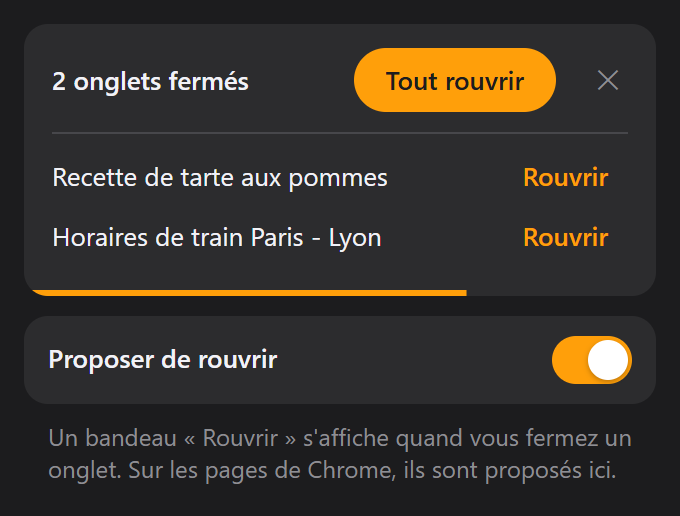
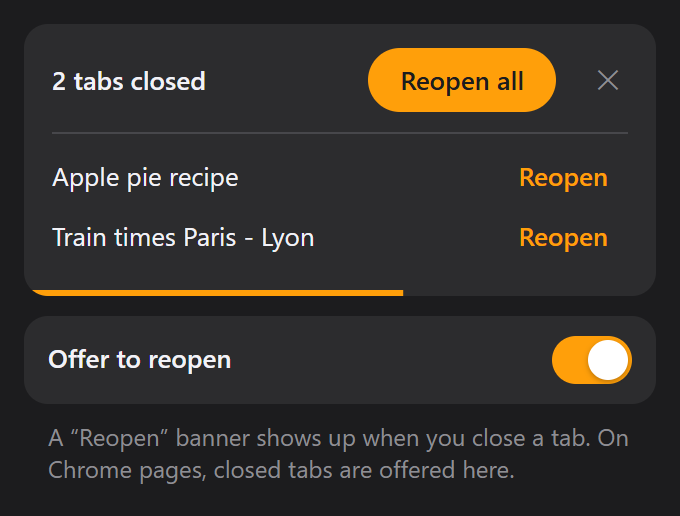
Translate the interface: English by default (Undo Close Tab), French kept, through Chrome's language files

diff --git a/banner.js b/banner.js
@@ -1,9 +1,15 @@
-// Le bandeau "Onglet fermé · Rouvrir", commun à la page (toast.js) et à la
+// Le bandeau "Tab closed · Reopen" ("Onglet fermé · Rouvrir"), commun à la page (toast.js) et à la
 // petite fenêtre de secours (confirm.js). Une ligne par onglet fermé ; les
 // onglets fermés d'un même geste partagent une ligne.
 // Affectation plutôt que déclaration : le fichier peut être injecté deux fois.
 globalThis.closedTabsBanner = (() => {
   const MAX_ROWS = 5;
+
+  // Textes dans la langue de Chrome (_locales), pluriels selon la règle de la langue.
+  // Ce fichier tourne aussi dans les pages : il n'utilise pas i18n.js, qui touche au document.
+  const t = (key, ...subs) => chrome.i18n.getMessage(key, subs.map(String)) || key;
+  const plurals = new Intl.PluralRules(chrome.i18n.getUILanguage());
+  const tp = (key, count) => chrome.i18n.getMessage(`${key}_${plurals.select(count)}`, [String(count)]) || t(`${key}_other`, count);
 
   // Les couleurs suivent le thème clair ou sombre du système ; l'orange est
   // celui de l'icône de l'extension.
@@ -206,18 +212,18 @@ globalThis.closedTabsBanner = (() => {
     toast.setAttribute('role', 'status');
 
     const dismiss = element('button', 'dismiss', '✕');
-    dismiss.setAttribute('aria-label', 'Ignorer');
+    dismiss.setAttribute('aria-label', t('dismiss'));
     dismiss.addEventListener('click', handlers.dismiss);
 
     const head = element('div', 'head');
     if (tabs.length === 1) {
       const text = element('div', 'text');
-      text.append(element('div', 'label', 'Onglet fermé'), element('div', 'title', tabs[0].title));
-      head.append(...[favicon(tabs[0].icon), text, button('restore', 'Rouvrir', tabs), dismiss].filter(Boolean));
+      text.append(element('div', 'label', t('tabClosed')), element('div', 'title', tabs[0].title));
+      head.append(...[favicon(tabs[0].icon), text, button('restore', t('reopen'), tabs), dismiss].filter(Boolean));
     } else {
       head.append(
-        element('div', 'text title', `${tabs.length} onglets fermés`),
-        button('restore', 'Tout rouvrir', tabs),
+        element('div', 'text title', tp('tabsClosed', tabs.length)),
+        button('restore', t('reopenAll'), tabs),
         dismiss,
       );
     }
@@ -228,13 +234,13 @@ globalThis.closedTabsBanner = (() => {
       const list = element('div', 'list');
       for (const row of rows.slice(0, MAX_ROWS)) {
         const [first] = row.tabs;
-        const name = row.tabs.length === 1 ? first.title : `${row.tabs.length} onglets fermés ensemble`;
+        const name = row.tabs.length === 1 ? first.title : tp('closedTogether', row.tabs.length);
         const line = element('div', 'row');
-        line.append(...[favicon(first.icon), element('div', 'name', name), button('link', 'Rouvrir', row.tabs)].filter(Boolean));
+        line.append(...[favicon(first.icon), element('div', 'name', name), button('link', t('reopen'), row.tabs)].filter(Boolean));
         list.append(line);
       }
       const hidden = rows.slice(MAX_ROWS).flatMap((row) => row.tabs).length;
-      if (hidden) list.append(element('div', 'more', `+ ${hidden} ${hidden === 1 ? 'autre' : 'autres'}`));
+      if (hidden) list.append(element('div', 'more', tp('more', hidden)));
       toast.append(list);
     }
 

diff --git a/i18n.js b/i18n.js
@@ -1,0 +1,22 @@
+// Textes de l'interface dans la langue de Chrome, lus dans _locales/<langue>/messages.json
+// (l'anglais quand la langue n'est pas traduite).
+// Dans le HTML : data-i18n="clé" pour le texte, data-i18n-placeholder, data-i18n-title
+// et data-i18n-aria-label pour les attributs.
+const t = (key, ...subs) => chrome.i18n.getMessage(key, subs.map(String)) || key;
+
+// Pluriels : la clé reçoit le suffixe de la règle de la langue (_one, _few, _many,
+// _other…), avec _other en repli. Le nombre est le premier remplacement ($COUNT$).
+const plurals = new Intl.PluralRules(chrome.i18n.getUILanguage());
+const tp = (key, count, ...subs) =>
+  chrome.i18n.getMessage(`${key}_${plurals.select(count)}`, [count, ...subs].map(String)) || t(`${key}_other`, count, ...subs);
+
+const translatePage = (root = document) => {
+  for (const el of root.querySelectorAll('[data-i18n]')) el.textContent = t(el.dataset.i18n);
+  for (const attr of ['placeholder', 'title', 'aria-label']) {
+    for (const el of root.querySelectorAll(`[data-i18n-${attr}]`)) el.setAttribute(attr, t(el.getAttribute(`data-i18n-${attr}`)));
+  }
+  document.documentElement.lang = chrome.i18n.getUILanguage();
+  document.documentElement.dir = chrome.i18n.getMessage('@@bidi_dir') || 'ltr';
+};
+
+translatePage();

diff --git a/popup.html b/popup.html
@@ -1,8 +1,8 @@
 <!doctype html>
-<html lang="fr">
+<html lang="en">
   <head>
     <meta charset="utf-8" />
-    <title>Confirmer la fermeture d'onglet</title>
+    <title data-i18n="extName">Undo Close Tab</title>
     <style>
       :root {
         color-scheme: light dark;
@@ -116,10 +116,11 @@
   <body>
     <div id="closed" hidden></div>
     <label>
-      <span>Proposer de rouvrir</span>
+      <span data-i18n="popupLabel"></span>
       <input type="checkbox" id="enabled" />
     </label>
     <p id="status"></p>
+    <script src="i18n.js"></script>
     <script src="banner.js"></script>
     <script src="popup.js"></script>
   </body>

diff --git a/background.js b/background.js
@@ -38,7 +38,7 @@ const updateBadge = async () => {
   const { enabled } = await chrome.storage.local.get({ enabled: true });
   const waiting = toastTabId === null ? activePending().length : 0;
   await chrome.action.setBadgeBackgroundColor({ color: enabled ? '#1a73e8' : '#b3261e' });
-  await chrome.action.setBadgeText({ text: enabled ? (waiting ? String(waiting) : '') : 'OFF' });
+  await chrome.action.setBadgeText({ text: enabled ? (waiting ? String(waiting) : '') : chrome.i18n.getMessage('badgeOff') });
 };
 
 const restoreTab = (sessionId, url) =>

diff --git a/popup.js b/popup.js
@@ -4,9 +4,7 @@ const closed = document.getElementById('closed');
 
 const render = (enabled) => {
   checkbox.checked = enabled;
-  status.textContent = enabled
-    ? 'Un bandeau « Rouvrir » s\'affiche quand vous fermez un onglet. Sur les pages de Chrome, ils sont proposés ici.'
-    : 'Protection en pause : aucun bandeau à la fermeture d\'un onglet.';
+  status.textContent = t(enabled ? 'statusOn' : 'statusOff');
 };
 
 chrome.storage.local.get({ enabled: true }, ({ enabled }) => render(enabled));

diff --git a/README.md b/README.md
@@ -1,15 +1,15 @@
 <img src="icons/icon128.png" width="88" alt="">
 
-# Confirmer la fermeture d'onglet
+# Undo Close Tab
 
-A Chrome extension that catches accidental tab closes. The moment you close a tab, a banner offers to bring it back.
+A Chrome extension that catches accidental tab closes (called *Confirmer la fermeture d'onglet* in French). The moment you close a tab, a banner offers to bring it back.
 
 ![The "tab closed" banner on a page](screenshots/toast.png)
 
 ## What it does
 
-- **One click to undo.** When a tab closes, a banner appears at the top of the page you land on: "Onglet fermé · Rouvrir". Click **Rouvrir** and the tab returns to where it was, with its back and forward history.
-- **Several tabs, one banner.** Close a few tabs in a row and each one gets its own line with its own **Rouvrir** button, newest first, plus **Tout rouvrir** to bring them all back. Tabs closed in a single gesture ("Close other tabs") share one line.
+- **One click to undo.** When a tab closes, a banner appears at the top of the page you land on: "Tab closed · Reopen". Click **Reopen** and the tab returns to where it was, with its back and forward history.
+- **Several tabs, one banner.** Close a few tabs in a row and each one gets its own line with its own **Reopen** button, newest first, plus **Reopen all** to bring them all back. Tabs closed in a single gesture ("Close other tabs") share one line.
 - **Follows you.** If you switch tabs before answering, the banner moves to the tab you are on with the time it has left.
 - **Gets out of the way.** The banner disappears on its own 7 seconds after the last tab you closed, and the countdown pauses while your mouse is over it.
 - **Only when it makes sense.** Nothing is offered when you close a whole window or an internal page such as a new tab.
@@ -20,7 +20,7 @@ A Chrome extension that catches accidental tab closes. The moment you close a ta
 
 <img src="screenshots/popup-list.png" width="340" alt="Closed tabs listed in the toolbar bubble, on a Chrome page"> <img src="screenshots/popup.png" width="340" alt="The on/off switch">
 
-The interface is in French.
+The interface follows the language of Chrome: English by default, French when Chrome is set to French.
 
 ## Install
 
